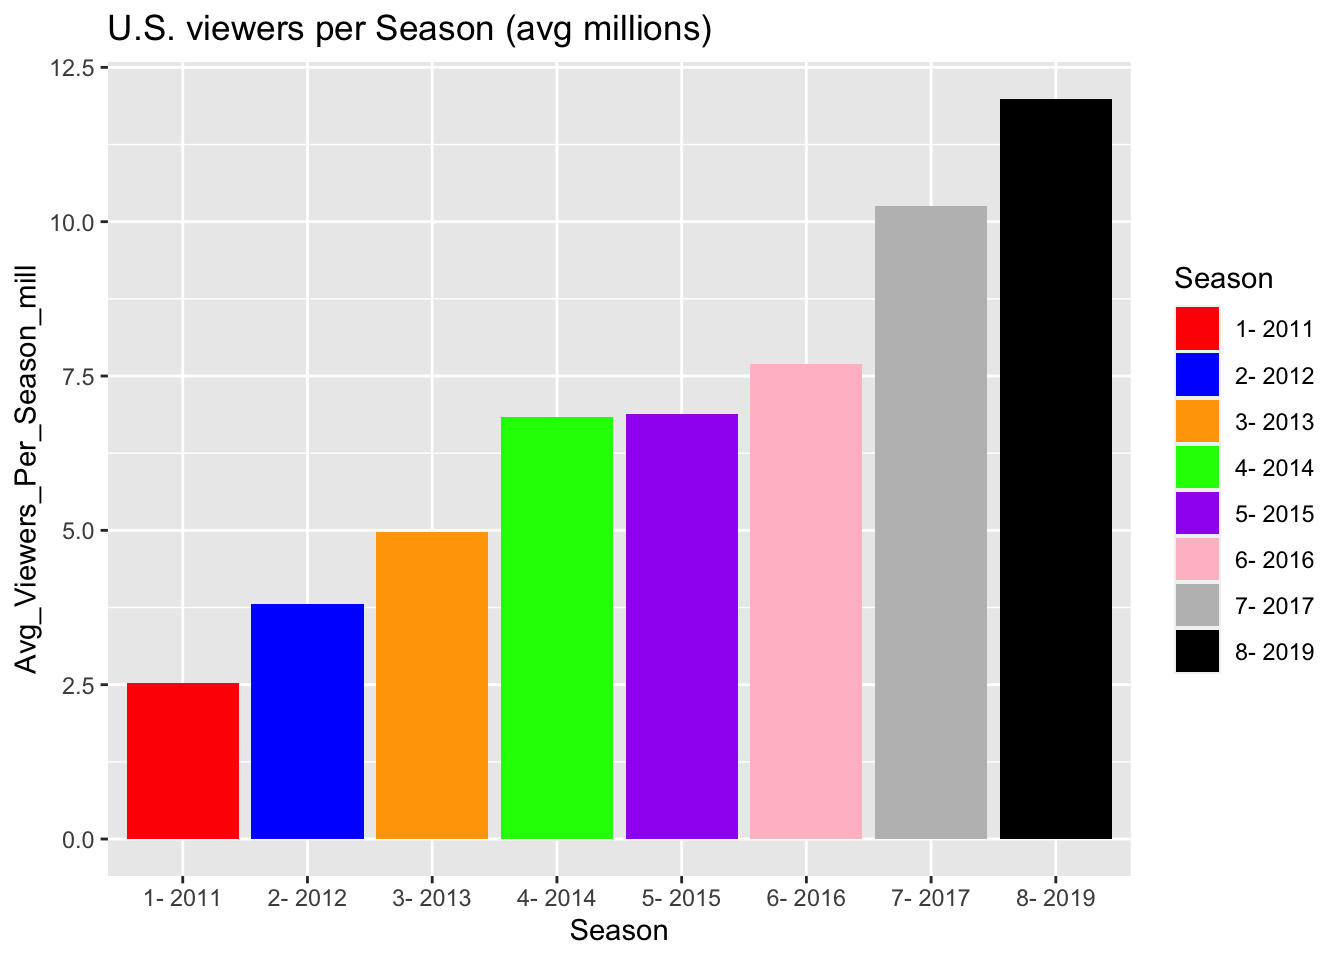
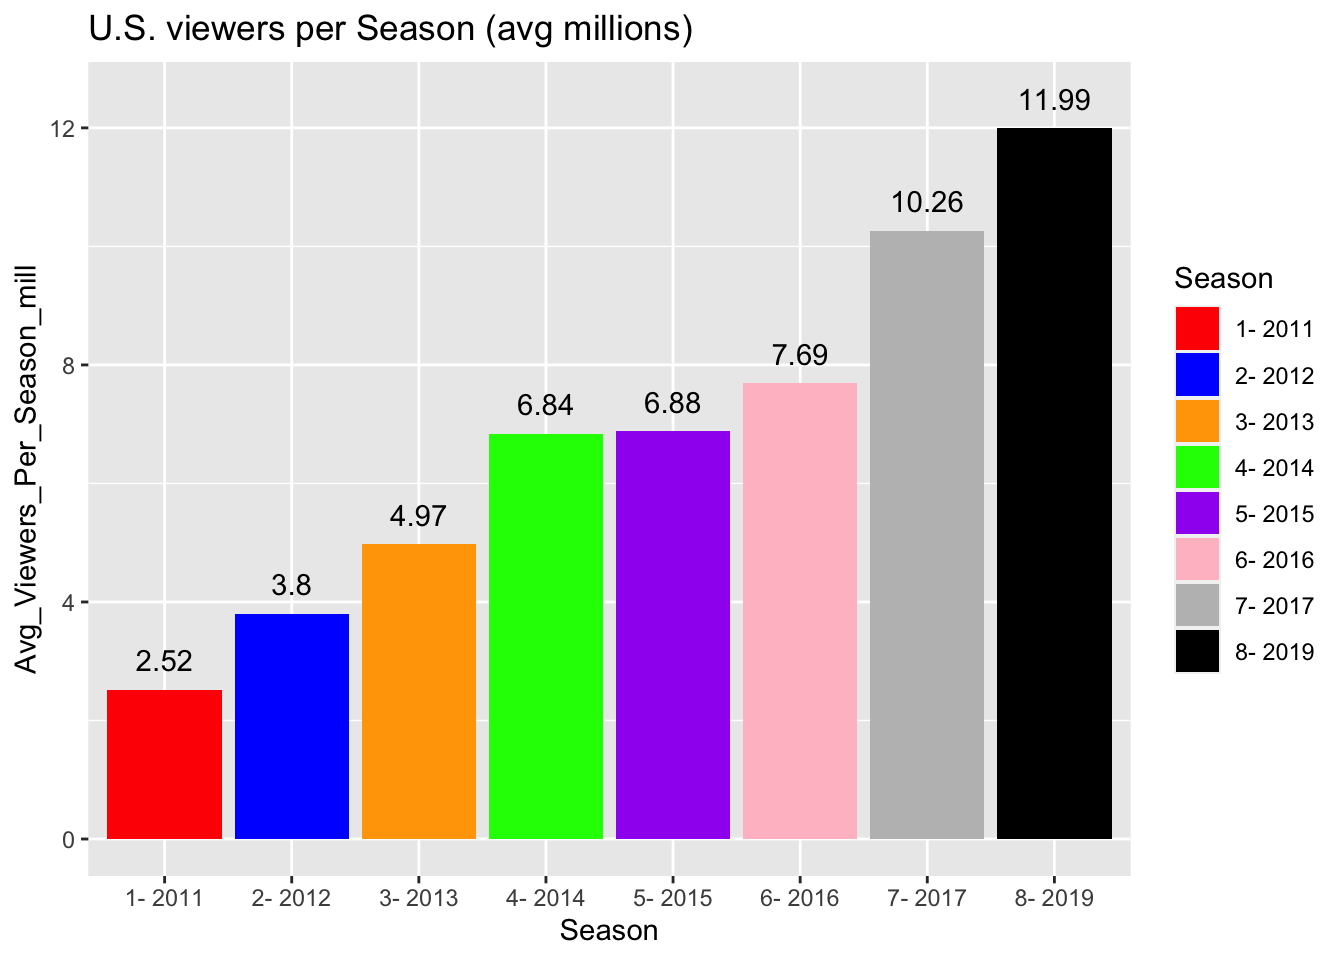
Modified plot
I added the values for each season to show above each bar

diff --git a/Quarto and MD 1/ASSIGNMENT 1/RR.html b/Quarto and MD 1/ASSIGNMENT 1/RR.html
@@ -145,7 +145,7 @@ code span.wa { color: #60a0b0; font-weight: bold; font-style: italic; } /* Warni
 <pre><code></code></pre>
 <div class="quarto-figure quarto-figure-center">
 <figure class="figure">
-<p><a href="https://en.wikipedia.org/wiki/File:Game_of_Thrones_title_card.jpg"><img src="/Users/macbookpro/Documents/GitHub/RRcourse2023/Quarto%20and%20MD%201/ASSIGNMENT%201/Game_of_Thrones_title_card.jpg" class="img-fluid figure-img"></a></p>
+<p><a href="https://en.wikipedia.org/wiki/File:Game_of_Thrones_title_card.jpg"><img src="Game_of_Thrones_title_card.jpg" class="img-fluid figure-img"></a></p>
 <p></p><figcaption class="figure-caption">Game of Thrones</figcaption><p></p>
 </figure>
 </div>
@@ -208,7 +208,7 @@ code span.wa { color: #60a0b0; font-weight: bold; font-style: italic; } /* Warni
 <span id="cb3-2"><a href="#cb3-2" aria-hidden="true" tabindex="-1"></a>GOT_VIEWS <span class="ot">&lt;-</span> <span class="fu">ggplot</span>(GOT, <span class="fu">aes</span>(<span class="at">x =</span> Season, <span class="at">y =</span> Avg_Viewers_Per_Season_mill, <span class="at">fill=</span> Season))<span class="sc">+</span></span>
 <span id="cb3-3"><a href="#cb3-3" aria-hidden="true" tabindex="-1"></a>  <span class="fu">geom_bar</span>(<span class="at">stat =</span> <span class="st">"identity"</span>)</span>
 <span id="cb3-4"><a href="#cb3-4" aria-hidden="true" tabindex="-1"></a></span>
-<span id="cb3-5"><a href="#cb3-5" aria-hidden="true" tabindex="-1"></a>GOT_VIEWS <span class="sc">+</span> <span class="fu">scale_fill_manual</span>(<span class="at">values =</span> <span class="fu">c</span>(<span class="st">"red"</span>, <span class="st">"blue"</span>, <span class="st">"orange"</span>, <span class="st">"green"</span>, <span class="st">"purple"</span>, <span class="st">"pink"</span>, <span class="st">"grey"</span>, <span class="st">"black"</span>)) <span class="sc">+</span> <span class="fu">labs</span>(<span class="at">title =</span> <span class="st">"U.S. viewers per Season (avg millions)"</span>, <span class="at">x =</span> <span class="st">"Season"</span>, <span class="at">y =</span> <span class="st">"Avg_Viewers_Per_Season_mill"</span>)</span>
+<span id="cb3-5"><a href="#cb3-5" aria-hidden="true" tabindex="-1"></a>GOT_VIEWS <span class="sc">+</span> <span class="fu">scale_fill_manual</span>(<span class="at">values =</span> <span class="fu">c</span>(<span class="st">"red"</span>, <span class="st">"blue"</span>, <span class="st">"orange"</span>, <span class="st">"green"</span>, <span class="st">"purple"</span>, <span class="st">"pink"</span>, <span class="st">"grey"</span>, <span class="st">"black"</span>)) <span class="sc">+</span> <span class="fu">labs</span>(<span class="at">title =</span> <span class="st">"U.S. viewers per Season (avg millions)"</span>, <span class="at">x =</span> <span class="st">"Season"</span>, <span class="at">y =</span> <span class="st">"Avg_Viewers_Per_Season_mill"</span>)<span class="sc">+</span> <span class="fu">geom_text</span>(<span class="fu">aes</span>(<span class="at">label =</span> <span class="fu">signif</span>(Avg_Viewers_Per_Season_mill)), <span class="at">nudge_y =</span> <span class="fl">0.5</span>)</span>
 <span id="cb3-6"><a href="#cb3-6" aria-hidden="true" tabindex="-1"></a><span class="in">```</span></span></code><button title="Copy to Clipboard" class="code-copy-button"><i class="bi"></i></button></pre></div>
 <div class="cell-output-display">
 <p><img src="RR_files/figure-html/unnamed-chunk-2-1.png" class="img-fluid" width="672"></p>
